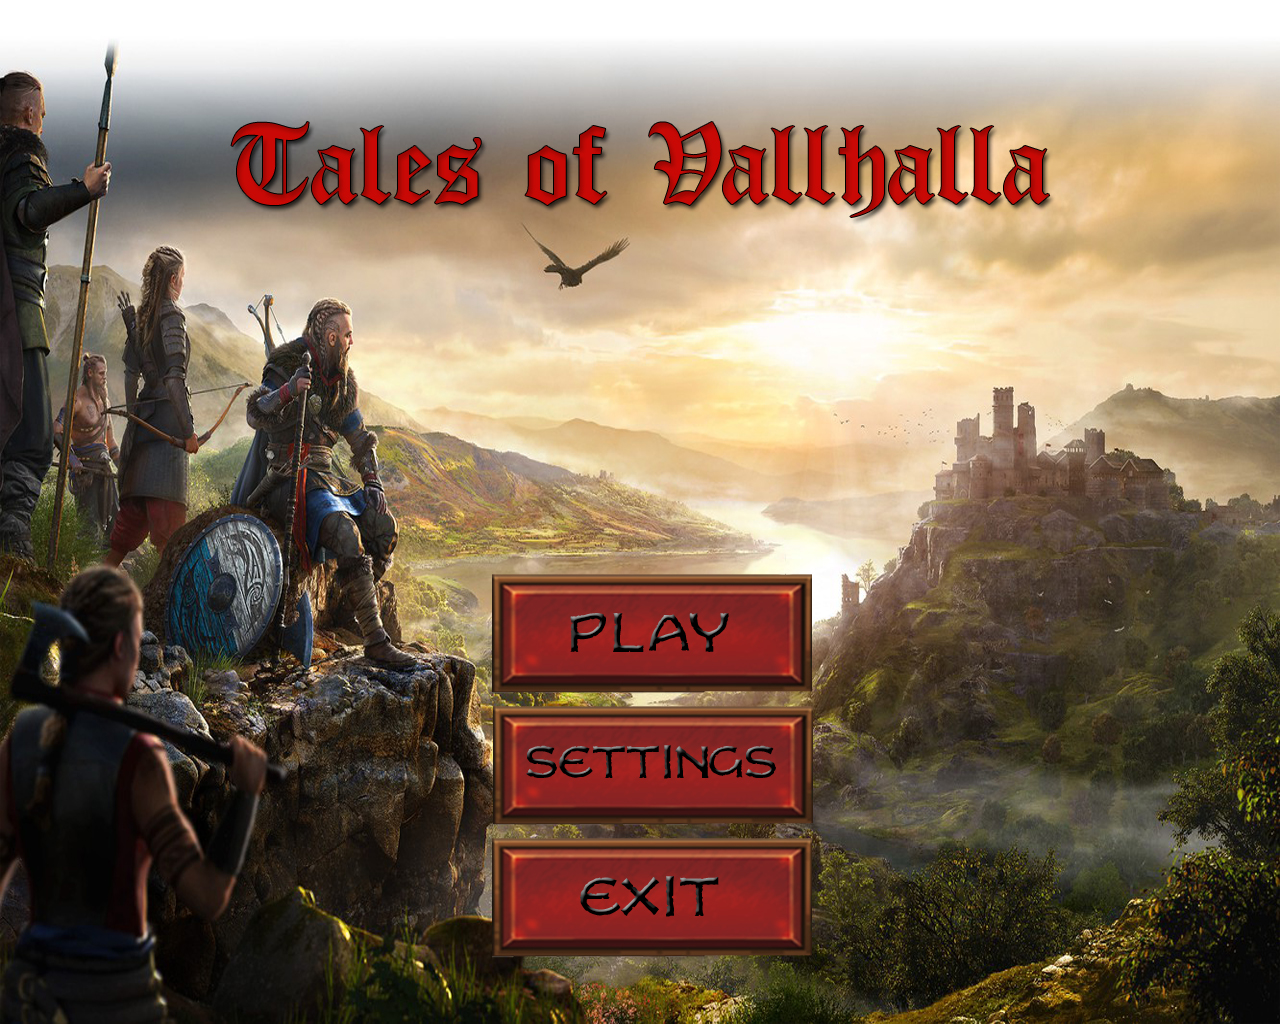
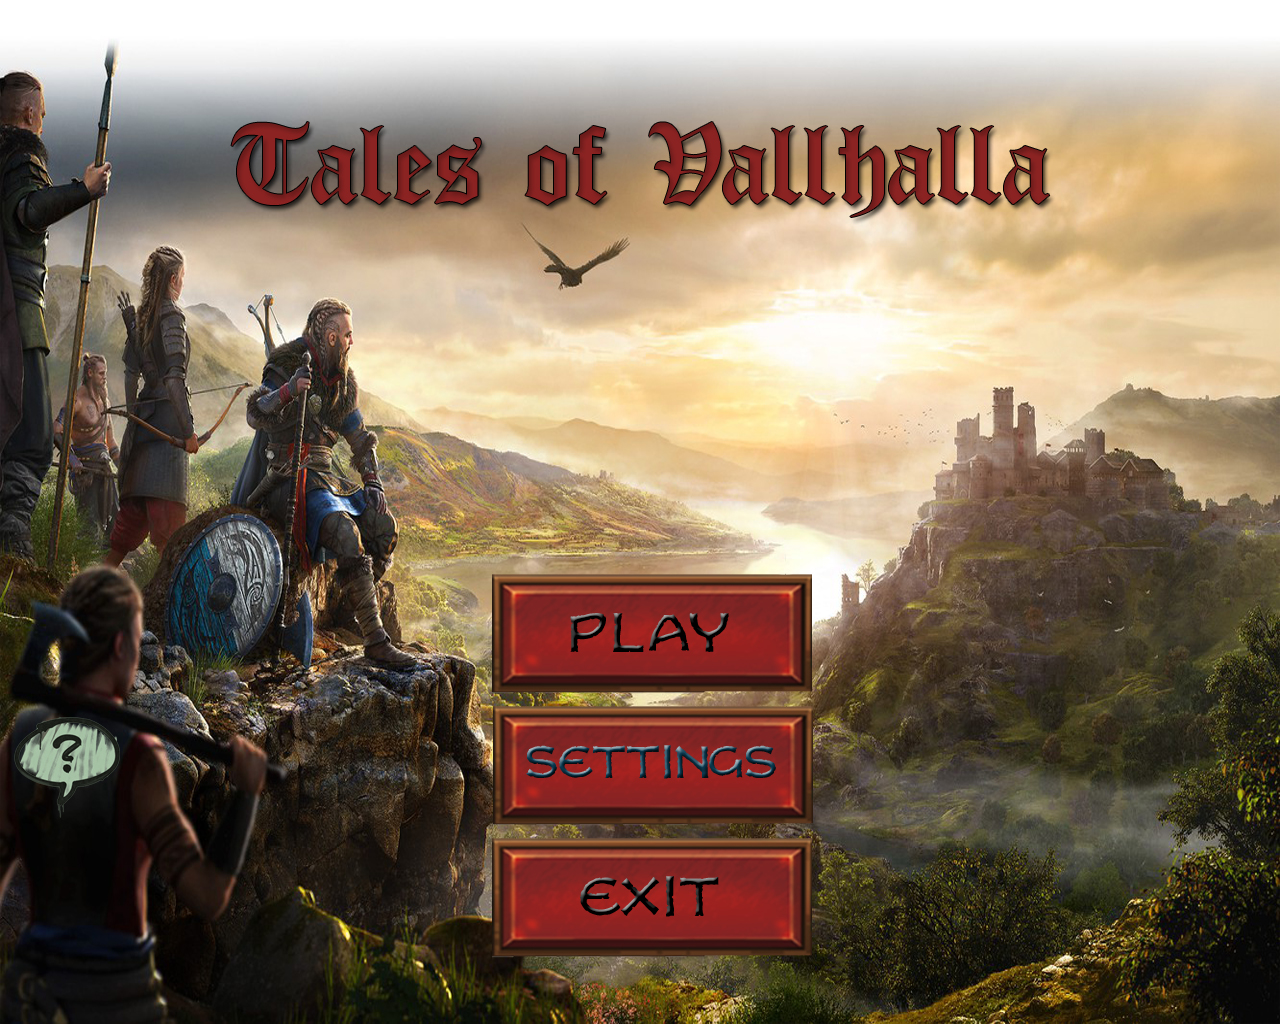
added about State w/ fully functional buttons
remains to be filled with meaningful text

diff --git a/src/PaooGame/States/MenuState.java b/src/PaooGame/States/MenuState.java
@@ -29,8 +29,7 @@ public class MenuState extends State
         super(refLink);
         background=ImageLoader.LoadImage("/menu.jpg");
         hoverElement=ImageLoader.LoadImage("/optionHover.png");
-//        if(State.GetState()==refLink.GetGame().getMenuState())
-//            this.playMusic();
+        //this.playMusic();
     }
     /*! \fn public void Update()
         \brief Actualizeaza starea curenta a meniului.
@@ -44,7 +43,7 @@ public class MenuState extends State
         {
             if(refLink.GetMouseManager().getMouseY()>=576 && refLink.GetMouseManager().getMouseY()<=693)
             {
-                if(refLink.GetMouseManager().leftPressed)
+                if(refLink.GetMouseManager().leftClickPressed())
                 {
                     this.MenuSelection();
                     State.SetState(refLink.GetGame().getPlayState());
@@ -54,10 +53,9 @@ public class MenuState extends State
             if(refLink.GetMouseManager().getMouseY()>=709 && refLink.GetMouseManager().getMouseY()<=823)
             {
                 //asta o sa fie settings state.
-                if(refLink.GetMouseManager().leftPressed)
+                if(refLink.GetMouseManager().leftClickPressed())
                 {
                     this.MenuSelection();
-                    State.SetState(refLink.GetGame().getPlayState());
                 }
 
             }
@@ -65,7 +63,7 @@ public class MenuState extends State
             // butonul EXIT - la apasarea acestuia se iese instant din aplicatie
             if(refLink.GetMouseManager().getMouseY()>=842 && refLink.GetMouseManager().getMouseY()<=956)
             {
-                if(refLink.GetMouseManager().leftPressed)
+                if(refLink.GetMouseManager().leftClickPressed())
                 {
                     this.MenuSelection();
                     System.exit(0);
@@ -84,7 +82,8 @@ public class MenuState extends State
     public void Draw(Graphics g)
     {
         g.drawImage(background,0,0,refLink.GetWidth(),refLink.GetHeight(),null);
-        if(refLink.GetMouseManager().getMouseX()>=495 && refLink.GetMouseManager().getMouseX()<=812) //cordonate calculate experimental folosind MousePressed + printuri
+        //folosim aceasta imbricare de if-uri pentru a printa un png de 114x114 pixeli care sa sugereze grafic butonul din meniu pe care
+        if(refLink.GetMouseManager().getMouseX()>=495 && refLink.GetMouseManager().getMouseX()<=812)
         {
             if(refLink.GetMouseManager().getMouseY()>=576 && refLink.GetMouseManager().getMouseY()<=693)
             {
@@ -103,20 +102,31 @@ public class MenuState extends State
                 g.drawImage(hoverElement,832,842,114,114,null);
             }
         }
+        // about button ( de reimplementat in viitor )
+        else if(refLink.GetMouseManager().getMouseX()>=31 && refLink.GetMouseManager().getMouseX()<=102)
+        {
+            if(refLink.GetMouseManager().getMouseY()>=738 && refLink.GetMouseManager().getMouseY()<=779)
+            {
+                if(refLink.GetMouseManager().leftClickPressed())
+                {
+                    State.SetState(refLink.GetGame().getAboutState());
+                }
+            }
+        }
     }
 
     //Functie care permite implementarea muzicii in aplicatie ( preluata )
     @Override
     public void playMusic() {
-        try{
-            AudioInputStream audioIn = AudioSystem.getAudioInputStream(MenuState.class.getResource("/m.wav"));
-            Clip clip = AudioSystem.getClip();
-            clip.open(audioIn);
-            clip.start();
-        }
-        catch(UnsupportedAudioFileException | IOException | LineUnavailableException e)
-        {
-            e.getMessage();
+        if(State.GetState()==refLink.GetGame().getMenuState()) {
+            try {
+                AudioInputStream audioIn = AudioSystem.getAudioInputStream(MenuState.class.getResource("/m.wav"));
+                Clip clip = AudioSystem.getClip();
+                clip.open(audioIn);
+                clip.start();
+            } catch (UnsupportedAudioFileException | IOException | LineUnavailableException e) {
+                e.getMessage();
+            }
         }
     }
 

diff --git a/src/PaooGame/States/AboutState.java b/src/PaooGame/States/AboutState.java
@@ -1,14 +1,17 @@
 package PaooGame.States;
 
+import PaooGame.Graphics.ImageLoader;
 import PaooGame.RefLinks;
 
 import java.awt.*;
+import java.awt.image.BufferedImage;
 
 /*! \class public class AboutState extends State
     \brief Implementeaza notiunea de credentiale (about)
  */
 public class AboutState extends State
 {
+    BufferedImage background;
     /*! \fn public AboutState(RefLinks refLink)
         \brief Constructorul de initializare al clasei.
 
@@ -18,6 +21,7 @@ public class AboutState extends State
     {
             ///Apel al constructorului clasei de baza.
         super(refLink);
+        background= ImageLoader.LoadImage("/about.jpg");
     }
     /*! \fn public void Update()
         \brief Actualizeaza starea curenta a meniu about.
@@ -25,7 +29,27 @@ public class AboutState extends State
     @Override
     public void Update()
     {
-
+        //daca apasam butonul BACK, ne vom intoarce in meniul principal
+        //cordonate determinate experimental
+        //pot exista mici incercitudini
+        if(refLink.GetMouseManager().getMouseY()>=851 && refLink.GetMouseManager().getMouseY()<=968)
+        {
+            if(refLink.GetMouseManager().getMouseX()>=146 && refLink.GetMouseManager().getMouseX()<=465)
+            {
+                if(refLink.GetMouseManager().leftClickPressed())
+                    State.SetState(refLink.GetGame().getMenuState());
+            }
+            if(refLink.GetMouseManager().getMouseX()>=470 && refLink.GetMouseManager().getMouseX()<=816)
+            {
+                if(refLink.GetMouseManager().leftClickPressed())
+                    System.exit(0);
+            }
+            if(refLink.GetMouseManager().getMouseX()>=822 && refLink.GetMouseManager().getMouseX()<=1136)
+            {
+                if(refLink.GetMouseManager().leftClickPressed())
+                    State.SetState(refLink.GetGame().getPlayState());
+            }
+        }
     }
 
     /*! \fn public void Draw(Graphics g)
@@ -36,7 +60,7 @@ public class AboutState extends State
     @Override
     public void Draw(Graphics g)
     {
-
+        g.drawImage(background,0,0,refLink.GetWidth(),refLink.GetHeight(),null);
     }
 
     @Override

diff --git a/src/PaooGame/Game.java b/src/PaooGame/Game.java
@@ -145,10 +145,10 @@ public class Game implements Runnable
             /// sau mai bine spus de 60 ori pe secunda.
 
         final int framesPerSecond   = 60; /*!< Constanta intreaga initializata cu numarul de frame-uri pe secunda.*/
-        final double timeFrame      = 1000000000 / framesPerSecond; /*!< Durata unui frame in nanosecunde.*/
+        final double timeFrame      = 1000000000f / framesPerSecond; /*!< Durata unui frame in nanosecunde.*/
 
             /// Atat timp timp cat threadul este pornit Update() & Draw()
-        while (runState == true)
+        while (runState)
         {
                 /// Se obtine timpul curent
             curentTime = System.nanoTime();
@@ -182,11 +182,6 @@ public class Game implements Runnable
                 /// Threadul creat este lansat in executie (va executa metoda run())
             gameThread.start();
         }
-        else
-        {
-                /// Thread-ul este creat si pornit deja
-            return;
-        }
     }
 
     /*! \fn public synchronized void stop()
@@ -196,7 +191,7 @@ public class Game implements Runnable
      */
     public synchronized void StopGame()
     {
-        if(runState == true)
+        if(runState)
         {
                 /// Actualizare stare thread
             runState = false;
@@ -212,11 +207,6 @@ public class Game implements Runnable
                     /// In situatia in care apare o exceptie pe ecran vor fi afisate informatii utile pentru depanare.
                 ex.printStackTrace();
             }
-        }
-        else
-        {
-                /// Thread-ul este oprit deja.
-            return;
         }
     }
 
@@ -324,5 +314,7 @@ public class Game implements Runnable
     {
         return menuState;
     }
+
+    public State getAboutState() { return aboutState; }
 }
 

diff --git a/src/PaooGame/Input/MouseManager.java b/src/PaooGame/Input/MouseManager.java
@@ -4,7 +4,7 @@ import java.awt.event.MouseAdapter;
 import java.awt.event.MouseEvent;
 
 public class MouseManager extends MouseAdapter {
-    public boolean leftPressed,rightPressed;
+    private boolean leftPressed,rightPressed;
     private int mouseX,mouseY;
 
     public MouseManager()
@@ -18,6 +18,7 @@ public class MouseManager extends MouseAdapter {
         if(e.getButton()==MouseEvent.BUTTON1) //left click = BUTTON1
         {
             leftPressed = true;
+            System.out.println(e.getX()+", "+e.getY());
         }
         if(e.getButton()==MouseEvent.BUTTON3) //right click = BUTTON3
             rightPressed=true;
@@ -25,8 +26,9 @@ public class MouseManager extends MouseAdapter {
 
     @Override
     public void mouseReleased(MouseEvent e) {
-        if(e.getButton()==MouseEvent.BUTTON1)
-            leftPressed=false;
+        if(e.getButton()==MouseEvent.BUTTON1) {
+            leftPressed = false;
+        }
         if(e.getButton()==MouseEvent.BUTTON3)
             rightPressed=false;
 
@@ -46,6 +48,7 @@ public class MouseManager extends MouseAdapter {
     public boolean rightClickPressed(){
         return rightPressed;
     }
+
     public int getMouseX()
     {
         return mouseX;
